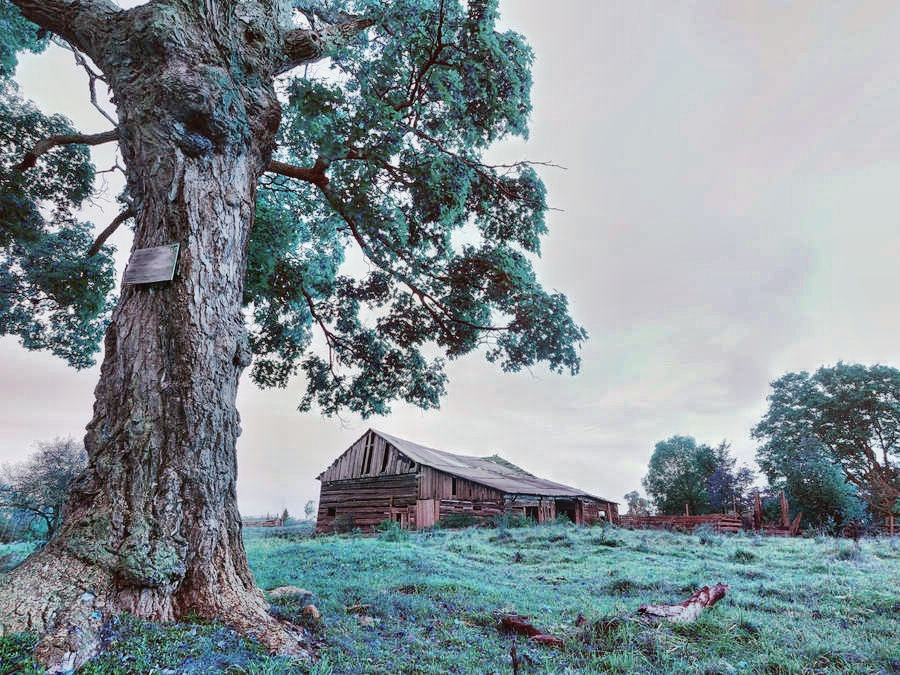
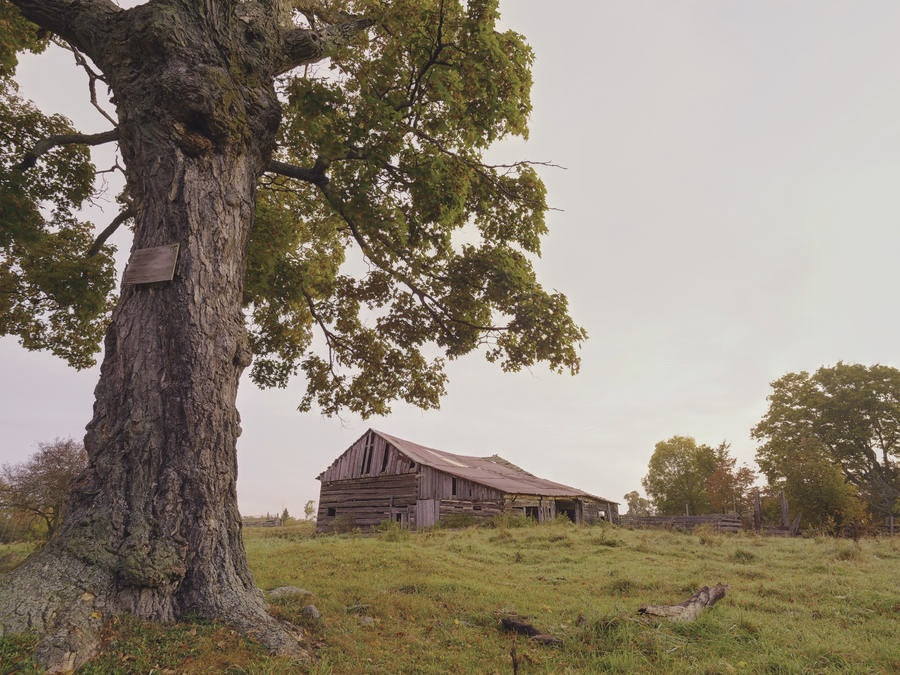
Updated algorithm to maximize fusion

diff --git a/main.py b/main.py
@@ -1,57 +1,40 @@
 import os
 import cv2
-import numpy as np
 from image_loader import load_image
 from image_processor import ImageProcessor
 
 def perform_exposure_fusion(input_folder, output_folder, image1_name, image2_name):
     processor = ImageProcessor()
     
-    # Construct paths to the input images
-    image1_path = os.path.join(input_folder, image1_name)
-    image2_path = os.path.join(input_folder, image2_name)
-
     # Load images
-    img1 = load_image(image1_path)
-    img2 = load_image(image2_path)
+    img1 = load_image(os.path.join(input_folder, image1_name))
+    img2 = load_image(os.path.join(input_folder, image2_name))
 
     if img1 is None or img2 is None:
         print("One or more images could not be loaded.")
-        return None
+        return
 
     height, width, _ = img1.shape
     aligned_images = processor.align_images([img1, img2], width, height)
-    
-    if not aligned_images or len(aligned_images) < 2:
-        print("Error aligning images or insufficient images for processing.")
-        return None
-    
     fused_image = processor.merge_images(aligned_images)
-    fused_image = np.clip(fused_image, 0, 255).astype('uint8')
-    fused_image = processor.enhance_local_contrast(fused_image)
 
-    # Check if output folder exists, if not, create it
+    # Ensure output folder exists
     if not os.path.exists(output_folder):
         os.makedirs(output_folder)
 
-    # Construct output image path
-    output_image_path = os.path.join(output_folder, f"fused_{image1_name}")
-
     # Save the fused image
-    cv2.imwrite(output_image_path, fused_image)
+    output_image_path = os.path.join(output_folder, f"fused_{image1_name}")
+    cv2.imwrite(output_image_path, cv2.cvtColor(fused_image, cv2.COLOR_RGB2BGR))
     print(f"Fusion complete, image saved as '{output_image_path}'")
-    return output_image_path
 
-# Directory and file configuration
-input_folder = 'input_images'
-output_folder = 'result_images'
-image1_name = 'low_exposure_1.jpg'
-image2_name = 'high_exposure_1.jpg'
+if __name__ == "__main__":
+    input_folder = 'input_images'
+    output_folder = 'result_images'
+    image1_name = 'low_exposure_1.jpg'
+    image2_name = 'high_exposure_1.jpg'
+    perform_exposure_fusion(input_folder, output_folder, image1_name, image2_name)
+    
 
-# Perform fusion
-result_path = perform_exposure_fusion(input_folder, output_folder, image1_name, image2_name)
-if result_path:
-    print("Image processing successful.")
-else:
-    print("Image processing failed.")
-
+    image3_name = 'low_exposure.jpg'
+    image4_name = 'high_exposure.jpg'
+    perform_exposure_fusion(input_folder, output_folder, image3_name, image4_name)

diff --git a/image_processor.py b/image_processor.py
@@ -6,19 +6,16 @@ class ImageProcessor:
     def __init__(self):
         self.aligner = cv2.createAlignMTB()
         self.merger = cv2.createMergeMertens()
-        self.clahe = cv2.createCLAHE(clipLimit=2.0, tileGridSize=(8, 8))
 
     def align_images(self, images, width, height):
+        # Resize and align images
         resized_images = [resize_image(img, width, height) for img in images if img is not None]
         self.aligner.process(resized_images, resized_images)
         return resized_images
 
     def merge_images(self, images):
+        # Convert to float and merge
         images = [img.astype(np.float32) / 255.0 for img in images]
         fused_image = self.merger.process(images)
-        return cv2.normalize(fused_image, None, alpha=0, beta=255, norm_type=cv2.NORM_MINMAX)
-
-    def enhance_local_contrast(self, image):
-        channels = cv2.split(image)
-        enhanced_channels = [self.clahe.apply(ch) for ch in channels]
-        return cv2.merge(enhanced_channels)
+        # Normalize to convert back to 8-bit
+        return cv2.normalize(fused_image, None, alpha=0, beta=255, norm_type=cv2.NORM_MINMAX).astype('uint8')

diff --git a/image_loader.py b/image_loader.py
@@ -1,12 +1,15 @@
 import cv2
 
 def load_image(file_path):
+    # Load an image from file
     image = cv2.imread(file_path)
     if image is None:
         print(f"Failed to load image from {file_path}")
     else:
+        # Convert image to RGB
         image = cv2.cvtColor(image, cv2.COLOR_BGR2RGB)
     return image
 
 def resize_image(image, width, height):
+    # Resize image to specified width and height
     return cv2.resize(image, (width, height), interpolation=cv2.INTER_LINEAR)
